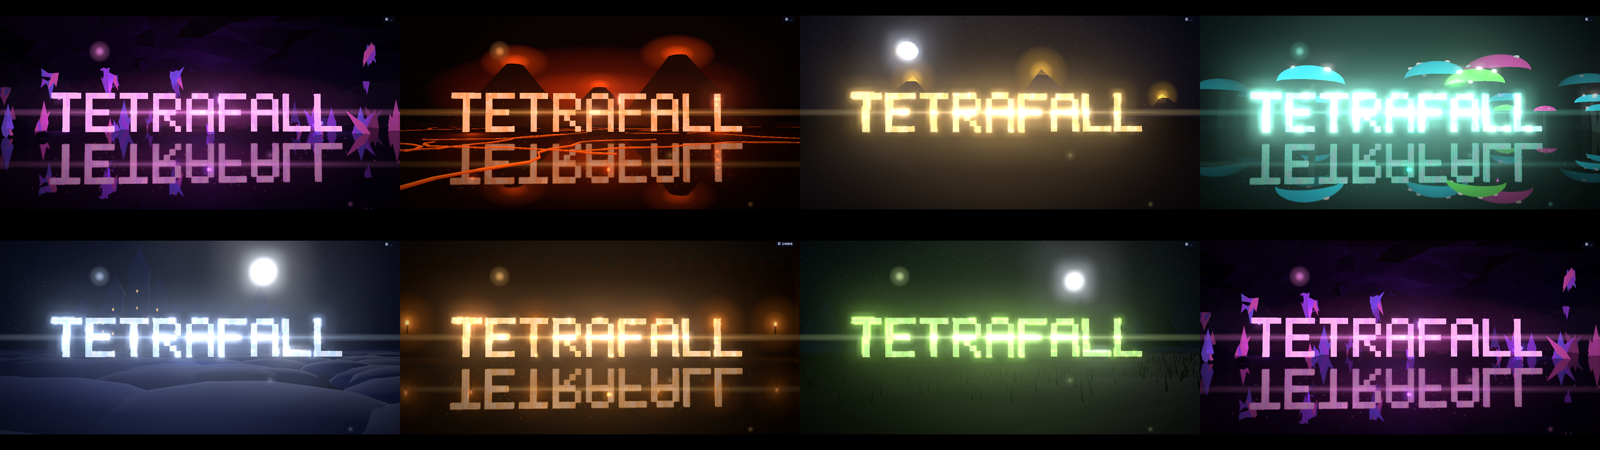
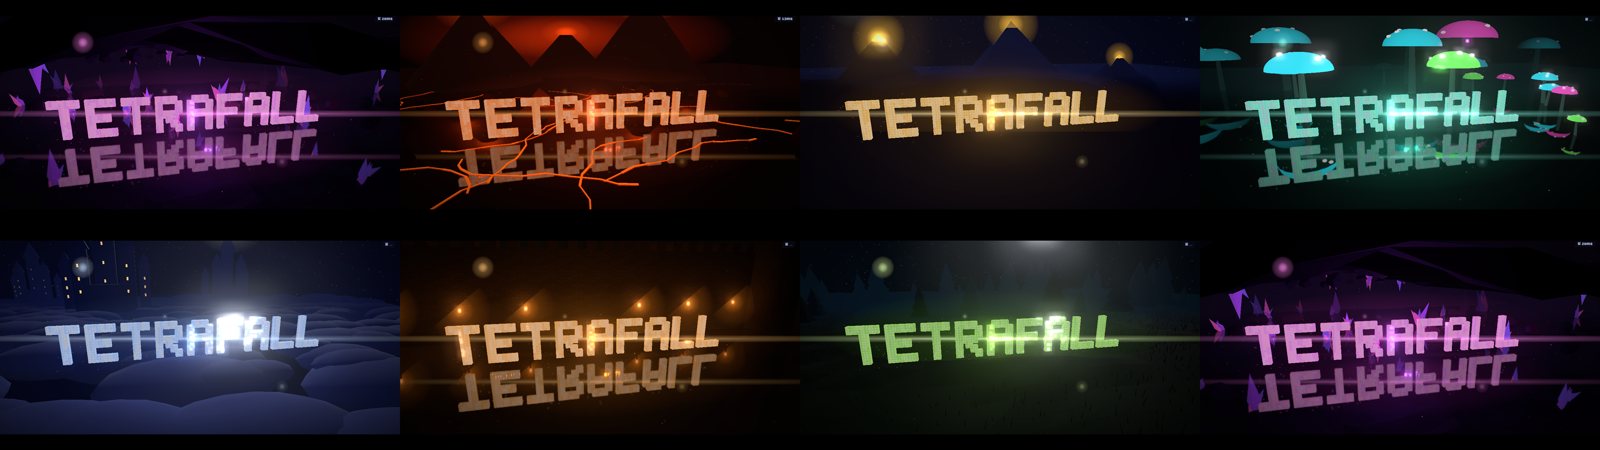
타이틀 시안 2차: 로고 3D·굵게

diff --git a/title/README.md b/title/README.md
@@ -1,6 +1,6 @@
 # 타이틀 엔딩 아트 시안 (B3)
 
-로고 완성 순간 (빛 터짐 0.35초 뒤), 1280×720, 보통 그래픽 (블룸·반사 켬). 코드: claude/tf-b3-world2
+로고 완성 순간 (빛 터짐 0.35초 뒤), 1280×720, 보통 그래픽 (블룸·반사 켬). 2차: 로고 3D·굵게 (획 3칸·두께 2겹·위옆에서 내려다봄). 코드: claude/tf-b3-world2 447b166
 
 | 파일 | 테마 |
 |---|---|
